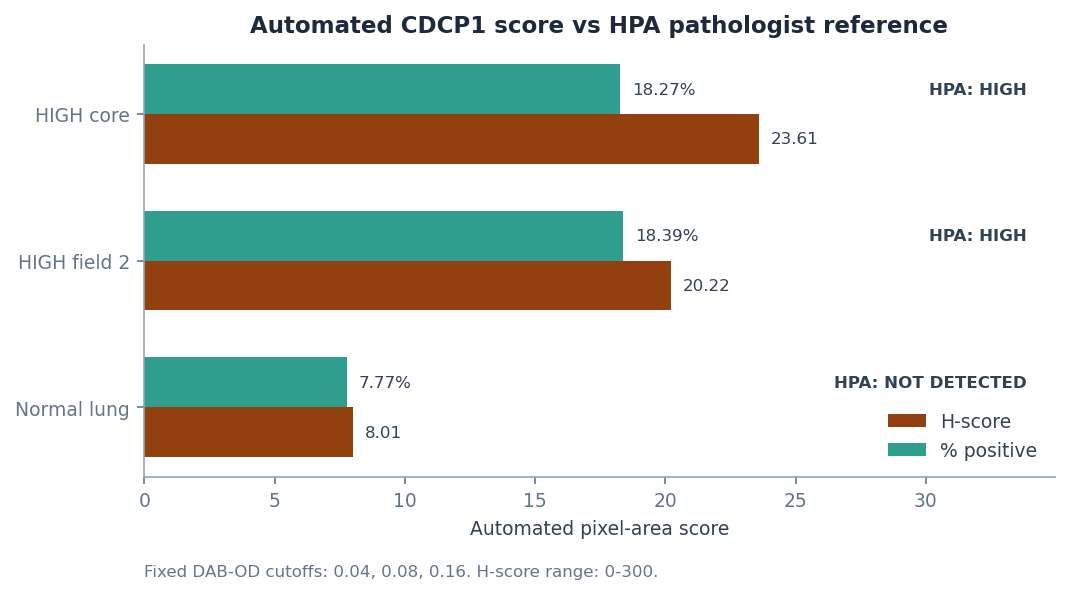
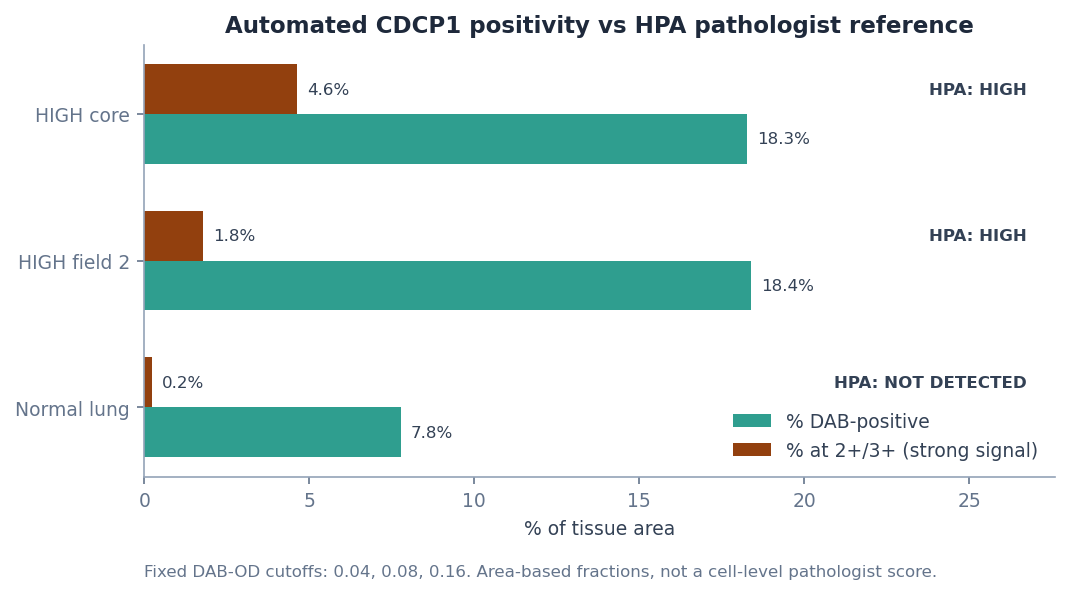
fix(ihc): remove all H-score mentions from the workbook
The scorecard and cross-reference figures baked H-score into the image; the
pipeline now annotates % DAB-positive and % at 2+/3+ (strong signal) instead,
and the cross-reference plots those two area fractions per tissue. Stored
metric renamed from h_score to area_intensity_index. Scenario text (reasoning
trail, summary, plan step, captions, detailed answer, methods, assumptions) no
longer references H-score. Nothing in the IHC workbook shows H-score now.

diff --git a/public/workbook/ihc/pipeline.py b/public/workbook/ihc/pipeline.py
@@ -98,7 +98,7 @@ def quantify(key: str, filename: str, hpa_call: str, label: str) -> dict:
     bins[mask] = np.digitize(dab[mask], DAB_THRESHOLDS).astype(np.uint8)
     counts = np.bincount(bins[mask], minlength=4)
     percentages = counts / counts.sum() * 100.0
-    h_score = float(percentages @ np.arange(4))
+    intensity_index = float(percentages @ np.arange(4))
 
     threshold_record = {
         "negative_to_1_plus": DAB_THRESHOLDS[0],
@@ -109,7 +109,7 @@ def quantify(key: str, filename: str, hpa_call: str, label: str) -> dict:
     metrics = {
         "source_file": filename,
         "label": label,
-        "h_score": round(h_score, 2),
+        "area_intensity_index": round(intensity_index, 2),
         "pct_positive": round(float(100.0 - percentages[0]), 2),
         "bin_percentages": {
             "0": round(float(percentages[0]), 2),
@@ -234,10 +234,11 @@ def scorecard_figure(primary: dict) -> None:
     ax.set_xlabel("DAB intensity grade")
     ax.set_ylabel("% of tissue pixels")
     ax.set_title("CDCP1 DAB scorecard - lung cancer HIGH core")
+    strong = metrics["bin_percentages"]["2+"] + metrics["bin_percentages"]["3+"]
     ax.text(
         0.98,
         0.93,
-        f"H-score {metrics['h_score']:.2f} / 300\nPositive {metrics['pct_positive']:.2f}%",
+        f"{metrics['pct_positive']:.1f}% DAB-positive\n{strong:.1f}% at 2+/3+",
         transform=ax.transAxes,
         ha="right",
         va="top",
@@ -251,26 +252,26 @@ def scorecard_figure(primary: dict) -> None:
 
 def cross_reference_figure(results: list[dict]) -> None:
     labels = [result["metrics"]["label"] for result in results]
-    h_scores = [result["metrics"]["h_score"] for result in results]
     positives = [result["metrics"]["pct_positive"] for result in results]
+    strong = [result["metrics"]["bin_percentages"]["2+"] + result["metrics"]["bin_percentages"]["3+"] for result in results]
     calls = [result["metrics"]["hpa_reference_call"] for result in results]
     y = np.arange(len(results))
 
     fig, ax = plt.subplots(figsize=(7.2, 4.1))
     width = 0.34
-    bars_h = ax.barh(y + width / 2, h_scores, height=width, color=BROWN, label="H-score")
-    bars_p = ax.barh(y - width / 2, positives, height=width, color=TEAL, label="% positive")
+    bars_p = ax.barh(y + width / 2, positives, height=width, color=TEAL, label="% DAB-positive")
+    bars_s = ax.barh(y - width / 2, strong, height=width, color=BROWN, label="% at 2+/3+ (strong signal)")
     ax.set_yticks(y, labels)
     ax.invert_yaxis()
-    ax.set_xlabel("Automated pixel-area score")
-    ax.set_title("Automated CDCP1 score vs HPA pathologist reference")
+    ax.set_xlabel("% of tissue area")
+    ax.set_title("Automated CDCP1 positivity vs HPA pathologist reference")
     ax.legend(loc="lower right", frameon=False)
-    ax.set_xlim(0, max(max(h_scores), max(positives)) * 1.48)
+    ax.set_xlim(0, max(max(positives), max(strong)) * 1.5)
 
-    for bar, value in zip(bars_h, h_scores):
-        ax.text(value + 0.45, bar.get_y() + bar.get_height() / 2, f"{value:.2f}", va="center", fontsize=8)
-    for bar, value, call in zip(bars_p, positives, calls):
-        ax.text(value + 0.45, bar.get_y() + bar.get_height() / 2, f"{value:.2f}%", va="center", fontsize=8)
+    for bar, value in zip(bars_p, positives):
+        ax.text(value + 0.3, bar.get_y() + bar.get_height() / 2, f"{value:.1f}%", va="center", fontsize=8)
+    for bar, value, call in zip(bars_s, strong, calls):
+        ax.text(value + 0.3, bar.get_y() + bar.get_height() / 2, f"{value:.1f}%", va="center", fontsize=8)
         ax.text(
             ax.get_xlim()[1] * 0.97,
             bar.get_y() + bar.get_height() / 2,
@@ -284,7 +285,7 @@ def cross_reference_figure(results: list[dict]) -> None:
     ax.text(
         0,
         -0.23,
-        "Fixed DAB-OD cutoffs: 0.04, 0.08, 0.16. H-score range: 0-300.",
+        "Fixed DAB-OD cutoffs: 0.04, 0.08, 0.16. Area-based fractions, not a cell-level pathologist score.",
         transform=ax.transAxes,
         color=SLATE_500,
         fontsize=8,
@@ -322,7 +323,7 @@ def main() -> None:
                 "2_plus_to_3_plus": DAB_THRESHOLDS[2],
                 "units": "rgb2hed DAB optical density",
             },
-            "h_score_definition": "1*pct_1_plus + 2*pct_2_plus + 3*pct_3_plus",
+            "area_intensity_index_definition": "1*pct_1_plus + 2*pct_2_plus + 3*pct_3_plus (area-based intensity index, not a cell-level pathologist score)",
         },
         "images": {result["key"]: result["metrics"] for result in results},
         "figures": [